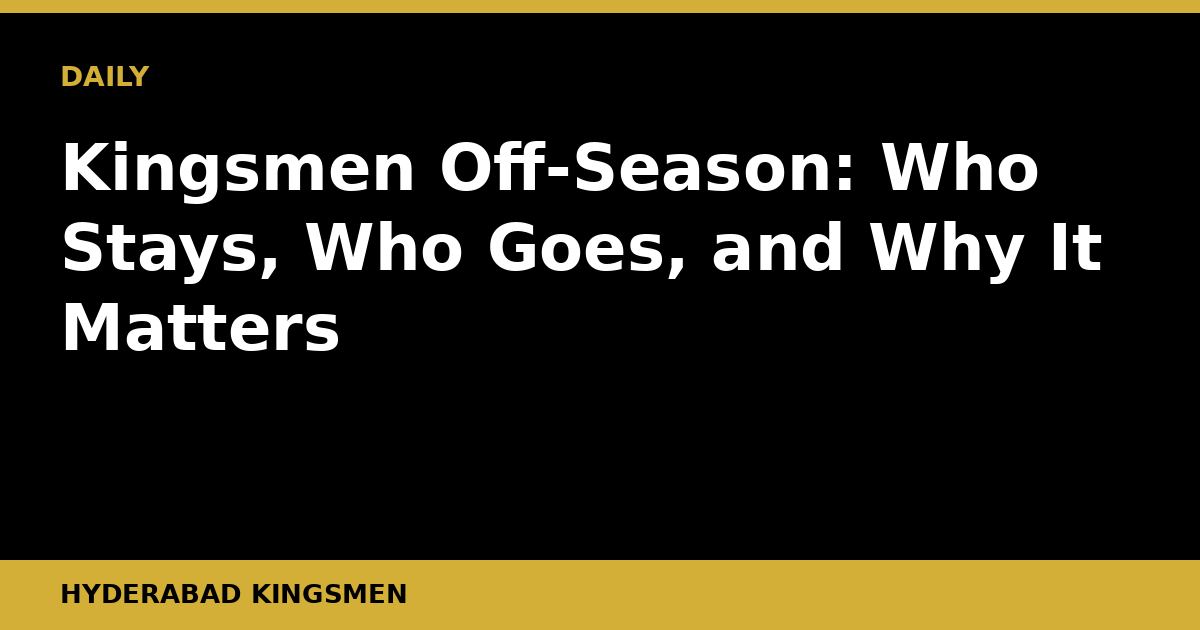
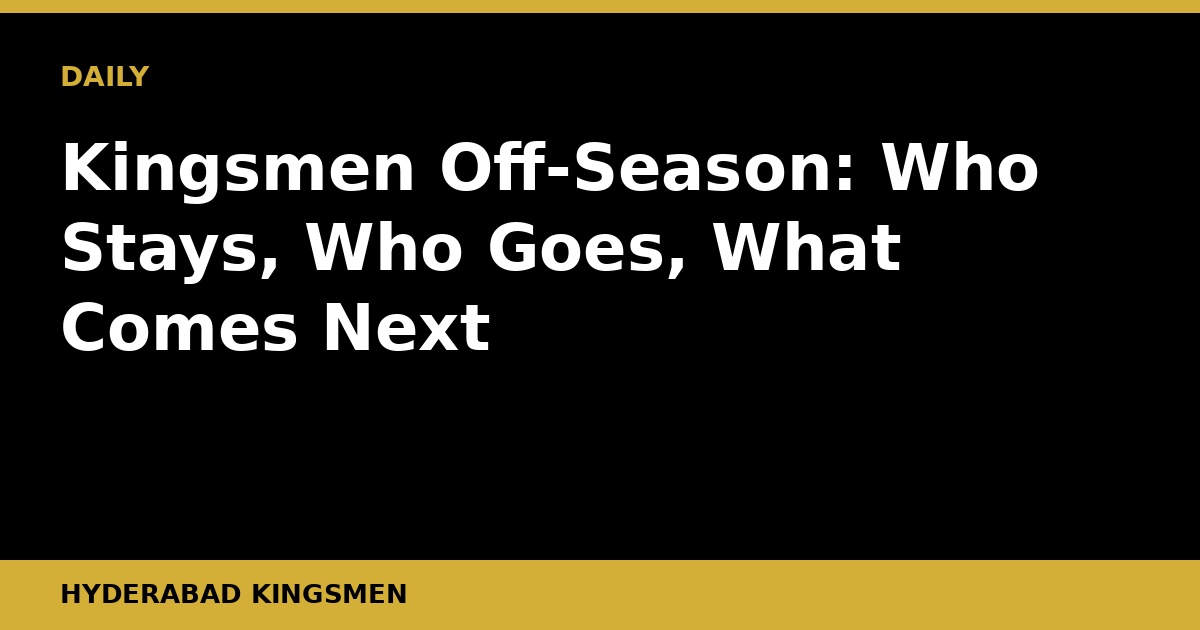
Daily post 2026-11-07

Changed region(s): [[0.0308, 0.4825, 0.4317, 0.573], [0.5858, 0.3317, 0.925, 0.4524]]

diff --git a/content/posts/kingsmen-off-season-retention-targets-likely-losses.md b/content/posts/kingsmen-off-season-retention-targets-likely-losses.md
@@ -1,53 +1,53 @@
 ---
-title: "Kingsmen Off-Season: Who Stays, Who Goes, and Why It Matters"
+title: "Kingsmen Off-Season: Who Stays, Who Goes, What Comes Next"
 slug: "kingsmen-off-season-retention-targets-likely-losses"
-date: "2026-08-27T10:49:10+05:00"
+date: "2026-11-07T06:45:05+05:00"
 draft: false
-description: "The Hyderabad Kingsmen face a defining off-season with key retention calls looming. How the franchise navigates the draft window could shape its PSL fortunes for years."
+description: "The Hyderabad Kingsmen face a defining off-season. Smart retentions could build a contender; poor decisions could set the franchise back years."
 banner: "/banners/kingsmen-off-season-retention-targets-likely-losses.png"
 kicker: "ANALYSIS"
 author: "Hyderabad Kingsmen"
 translationKey: "kingsmen-off-season-retention-targets-likely-losses"
-tags: ["psl", "hyderabad-kingsmen", "pakistan-cricket", "psl-draft", "franchise-cricket", "squad-building", "sindh-cricket"]
+tags: ["psl", "hyderabad-kingsmen", "psl-draft", "player-retention", "pakistan-cricket", "franchise-cricket", "sindh-cricket"]
 categories: ["Analysis"]
 ---
 
-## Kingsmen Off-Season: Who Stays, Who Goes, and Why It Matters
+The PSL window between seasons is where franchises are genuinely built or broken, and for the Hyderabad Kingsmen, the choices made in the coming weeks will shape the club's competitive identity for the foreseeable future. With the player retention and draft cycle approaching, the Kingsmen's management faces the classic franchise dilemma: protect your proven performers, stay liquid enough for the draft, and do not overpay for sentiment.
 
-Every PSL franchise hits a crossroads between seasons, and for the Hyderabad Kingsmen, that moment is now. The decisions made in the coming weeks on retentions, releases, and draft strategy will signal whether this franchise is genuinely building something or simply patching holes.
+## What This Off-Season Is Really About
 
-### The Real Story: Identity, Not Just Names
+The Kingsmen are not simply shuffling a roster. They are trying to establish a core that opponents will plan around. Every PSL franchise knows the problem: build too conservatively and you stagnate; rebuild too aggressively and you spend two seasons learning each other's names instead of winning matches.
 
-The off-season conversation around the Kingsmen is not really about individual contracts. It is about whether the franchise has a coherent cricketing identity yet. Newer PSL sides often spend their first two or three seasons cycling through names without committing to a core. The franchises that eventually challenge for titles, as Lahore Qalandars demonstrated over several seasons before their breakthrough, are the ones that back a nucleus and build around it. That is the choice the Kingsmen management faces right now.
+The smarter franchises in PSL history, Lahore Qalandars being the clearest example, identified a spine early and protected it through multiple cycles. The Kingsmen need to find that spine now.
 
-### Realistic Retention Targets
+## Realistic Retention Targets
 
-Without confirmed squad lists in hand, the broad logic of PSL roster management still points to certain profile types the Kingsmen should be prioritising.
+Without confirmed squad announcements, the framework for who the Kingsmen should fight to keep is straightforward: the players who gave the team shape and identity in the most recent campaign.
 
-Any in-form Pakistan international who showed genuine buy-in to the franchise's culture during the previous campaign is an obvious first retention call. Homegrown talent, particularly players with roots in Sindh and Hyderabad's own domestic circuit, carries added symbolic and practical value. The Kingsmen have an opportunity to position themselves as the natural home for Sindh's pipeline, in much the same way Karachi Kings historically drew on the city's enormous talent base.
+Any batting anchor who consistently posted match-defining scores in the middle overs is an obvious retention priority. PSL rosters are littered with stroke-makers; true situational batters who can read a T20 innings and adjust are genuinely scarce. If the Kingsmen have one, they should pay the premium.
 
-A world-class overseas finisher or power-hitter, assuming one featured in their ranks, is the kind of asset that franchises fight bidding wars over come draft day. Locking such a player in early, before the market inflates, is basic franchise housekeeping.
+On the bowling side, a local spinner who understands Karachi and Hyderabad surfaces is worth protecting above market rate. PSL pitches at the National Stadium reward turn late in innings, and a trusted slow bowler who knows those conditions cuts the opposition's options considerably.
 
-Finally, any young Pakistani bowler who showed consistent wicket-taking ability across the tournament deserves serious consideration. Pace bowling depth, in a country producing talent at the rate Pakistan currently is, can be restocked. But a genuinely smart T20 bowler who already understands franchise conditions and team culture is harder to replace than people assume.
+For the overseas slots, the calculus is different. A franchise should retain a foreign player only if that specific individual is both elite and available across the full tournament window. An overseas name who arrives late, misses group games, or prioritises other boards' contracts is a retention slot wasted. The Kingsmen would be better served entering the draft with flexibility and targeting a high-impact overseas quick or power-hitter they did not previously hold.
 
-### Likely Losses
+## Likely Losses and Why They Will Hurt
 
-The departures, when they come, will probably fall into two predictable categories.
+Every franchise loses players it would prefer to keep, and the Kingsmen will be no different. The PSL's contracting landscape is competitive, and both Karachi Kings and Lahore Qalandars historically have deeper pockets and stronger pulling power for marquee names.
 
-First, the fringe overseas players. PSL franchises can only field a limited number of foreign cricketers per match, so dead weight in the overseas slots is the first thing competent management trims. Any overseas name who did not meaningfully contribute, or whose asking price has since climbed higher than performance warrants, will likely be released.
+Any Kingsmen player who had a breakout season becomes an immediate target for wealthier franchises at the draft table. That is not a slight on Hyderabad's organisation; it is a structural feature of how PSL retention works. The response cannot be panic spending. It has to be intelligent drafting.
 
-Second, Pakistani players who drew interest from the richer, more established franchises. This is the structural disadvantage newer franchises face. Islamabad United, Lahore Qalandars, and Karachi Kings all carry the gravitational pull of established brands and, in some cases, deeper pockets. If a Kingsmen player had a strong individual season, expect at least one rival franchise to test his loyalty during the draft window.
+Support staff continuity matters here too. If the Kingsmen's coaching setup remains stable, they can re-absorb a certain amount of roster churn. Players adapt faster when the system is consistent. Wholesale changes to both squad and backroom would be genuinely damaging.
 
-Middle-order batters without a defined role are also vulnerable. The temptation to fill batting slots with names rather than functions has derailed many a T20 squad-building exercise. The Kingsmen would be wise to cut that habit early.
+## What It Means Going Forward
 
-### What It Means Going Forward
+The Kingsmen's long-term credibility in the PSL depends on whether they can be seen as a franchise that develops and retains talent rather than one that simply cycles through available names. That reputation is built across multiple seasons, and it starts with this retention window.
 
-The Kingsmen are still in the phase where perceptions are being formed. Players around Pakistan will watch whether the franchise rewards loyalty and performance or reshuffles endlessly. Coaches and support staff will read the retention decisions as a signal of how much planning authority they actually hold. Sponsors and fans in Hyderabad want to see a team that feels like it belongs to the city, not a rotating cast assembled from whatever the draft serves up.
+For young Pakistan players coming through the domestic Sindh circuit, the Kingsmen should represent an attractive option: a franchise that plays in conditions they understand, offers genuine game time, and has a coherent cricketing philosophy. That pipeline is an asset no other PSL team can replicate in quite the same way. Squandering it with short-term signings would be a strategic error.
 
-Getting the retention-versus-release balance right this off-season is not just a squad management task. It is a statement of intent.
+## What to Watch Next
 
-### What to Watch Next
+The PCB's official retention deadline and the subsequent PSL Draft are the two events that will confirm how shrewd the Kingsmen's off-season work has been. Watch specifically for three things.
 
-The PCB's official draft schedule and eligibility announcement will clarify exactly how many slots each franchise can protect. Once that window opens, watch which franchise moves first on shared targets. That will tell you plenty about who has done their homework.
+First, which category slots the Kingsmen use for their retentions, because protecting a Diamond-category player costs significantly more in salary cap terms than holding a Gold or Silver. Second, which overseas players become available in the draft pool, because a strong pool benefits flexible franchises. Third, whether any Kingsmen-linked domestic players from the Sindh or Hyderabad setup earn elevation to higher contract tiers, which would signal that the franchise's development pathway is producing real results.
 
-Also watch for any Sindh domestic players generating national-level noise during the Quaid-e-Azam Trophy or Pakistan Cup cycles. The Kingsmen, more than any other franchise, have the geographic and political logic to snap up Sindh talent before rivals do. Whether they act on that advantage or ignore it will be revealing.
+The off-season is unglamorous. No one watches retention decisions the way they watch a last-over finish. But those decisions are where the last-over finishes are won and lost before a ball is bowled.
